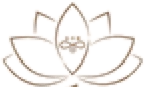
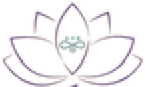
Revert to the DPMA-registered brand palette and fix the four-phase model
Per SomnoBalance_Entwickler-Vorgabe.docx (2026-09-20), which explicitly
supersedes all prior partial feedback:

- Color palette (§2): reverted --color-mauve/--color-teal/--color-sand/
  --color-offwhite/--color-ink and the lovable-* PDP tokens from the
  session's warm-brown palette back to the client's registered colors
  (#6F5784 primary, #669999 accent, #F8F3F1 base, #241F29 text) — the
  document states these are bound to the DPMA trademark filing, not a
  style preference. Added --color-ink-muted/--color-ink-meta for the
  spec's two additional text tones.
- Logo/icon (§4): restored the original purple assets (were recolored
  to warm-brown earlier this session, which is now the wrong direction).
  Note: the logo's tagline text "SELBSTHEILUNG" is baked into the raster
  image and the doc flags it as too close to a medical claim (wants
  "BALANCE" instead) — this still needs a proper re-export from source,
  tracked separately since pixel-patching baked-in text isn't safe to do here.
- Four-phase model (§6, §10): replaced the 5-station CycleBar component
  (TAG/REGULATION/LOSLASSEN/VORBEREITUNG/NACHT — six stations on the
  live bug report, non-canonical names) with PhaseProgressStrip: exactly
  the four required terms (Regulieren/Loslassen/Vorbereiten/Regenerieren),
  numbered 01-04, alternating divider color, no card/icon per spec.
  Fixed the same English-name leak in home.phases, the About page's p3
[…]

diff --git a/src/app/globals.css b/src/app/globals.css
@@ -1,18 +1,22 @@
 @import "tailwindcss";
 
 :root {
-  /* Warm neutral palette (client brief: cream/sand/beige/taupe/warm brown,
-     never cold or technical). `mauve` keeps its role as the primary accent
-     (buttons, links, headings) and `teal` as the secondary/label accent —
-     only the actual colors changed, so every existing usage site inherits
-     the new palette without needing to be touched individually. */
-  --color-mauve: #8a6a4f;
-  --color-mauve-dark: #6b4f39;
-  --color-teal: #a9835f;
-  --color-teal-dark: #7c5a3d;
-  --color-sand: #efe4d3;
-  --color-offwhite: #faf6ef;
-  --color-ink: #3a2f27;
+  /* Binding brand palette per SomnoBalance_Entwickler-Vorgabe.docx §2
+     (2026-09-20): registered with the DPMA trademark filing, not a style
+     preference — no other color world (sand/beige/gold, dark blue/platinum)
+     is permitted for SomnoBalance. `mauve` keeps its role as the primary
+     accent (buttons, links, headings) and `teal` as the secondary/label
+     accent so every existing usage site inherits the corrected palette
+     without needing to be touched individually. */
+  --color-mauve: #6f5784;
+  --color-mauve-dark: #5a4569;
+  --color-teal: #669999;
+  --color-teal-dark: #4d7a7a;
+  --color-sand: #e4dad3;
+  --color-offwhite: #f8f3f1;
+  --color-ink: #241f29;
+  --color-ink-muted: #5c5560;
+  --color-ink-meta: #9a93a0;
   --background: var(--color-offwhite);
   --foreground: var(--color-ink);
 
@@ -20,40 +24,40 @@
      hero deepens slightly so the page reads as a calming descent rather
      than snapping back to a flat background — dark ink text stays legible
      throughout, this never goes fully dark. Scoped to the homepage only;
-     every other page keeps the flat --color-offwhite background. */
-  --color-scroll-1: #faf6ef;
-  --color-scroll-2: #f5ecdd;
-  --color-scroll-3: #eeddc4;
+     every other page keeps the flat --color-offwhite background. Rebased
+     off the corrected #F8F3F1 base per the Entwickler-Vorgabe palette. */
+  --color-scroll-1: #f8f3f1;
+  --color-scroll-2: #f0e9e4;
+  --color-scroll-3: #e7dbd4;
 
-  /* Phase-card tint pair (client spec, 2026-09-16 email): the two brand
-     colors used as very light background fills behind alternating phase
-     cards — REGULATE/PREPARE get the mauve tint, LET GO/REGENERATE get
-     the sage tint. Distinct from --color-mauve/--color-teal (the site's
-     own accent tokens) since the client gave these as specific hex
-     values to match exactly, not to be substituted with our palette. */
+  /* Phase-card tint pair: now identical to --color-mauve/--color-teal
+     since both were corrected to the same DPMA-registered hex values
+     (Entwickler-Vorgabe.docx §2) — kept as separate tokens only because
+     call sites already reference them by this name. */
   --color-phase-mauve: #6f5784;
   --color-phase-sage: #669999;
 
-  /* Lovable PDP design-system tokens (exact port from the client's
-     Lovable export, src/styles.css) — used only by src/components/lovable/*
-     and the roll-on PDP body. Kept separate from the site's own mauve/ink/
-     sand palette rather than merged, since this is a like-for-like port
-     to be reconciled/swapped later, not a redesign of the shared palette. */
-  --lovable-background: oklch(0.975 0.012 78);
-  --lovable-foreground: oklch(0.27 0.025 55);
-  --lovable-card: oklch(0.985 0.009 76);
-  --lovable-card-foreground: oklch(0.27 0.025 55);
-  --lovable-primary: oklch(0.49 0.07 59);
-  --lovable-primary-foreground: oklch(0.98 0.01 78);
-  --lovable-secondary: oklch(0.91 0.025 72);
-  --lovable-secondary-foreground: oklch(0.3 0.03 55);
-  --lovable-muted: oklch(0.94 0.018 74);
-  --lovable-muted-foreground: oklch(0.54 0.025 58);
-  --lovable-accent: oklch(0.88 0.045 68);
-  --lovable-accent-foreground: oklch(0.29 0.03 55);
-  --lovable-border: oklch(0.86 0.025 69);
-  --lovable-input: oklch(0.86 0.025 69);
-  --lovable-ring: oklch(0.49 0.07 59);
+  /* Lovable PDP design-system tokens — rebased onto the binding brand
+     palette (Entwickler-Vorgabe.docx §2: #6F5784 primary, #669999 accent,
+     #F8F3F1 base, #241F29 text) instead of the earlier warm-brown port.
+     Tonal steps (card/muted/secondary/accent/border) keep the same
+     lightness relationships as the original tokens, just recomputed on
+     the corrected hue (~308° primary, ~196° accent) instead of ~59°/78°. */
+  --lovable-background: oklch(0.967 0.006 43.3);
+  --lovable-foreground: oklch(0.249 0.02 307.6);
+  --lovable-card: oklch(0.98 0.004 43.3);
+  --lovable-card-foreground: oklch(0.249 0.02 307.6);
+  --lovable-primary: oklch(0.499 0.075 308.3);
+  --lovable-primary-foreground: oklch(0.967 0.006 43.3);
+  --lovable-secondary: oklch(0.91 0.02 308.3);
+  --lovable-secondary-foreground: oklch(0.32 0.03 307.6);
+  --lovable-muted: oklch(0.94 0.012 308.3);
+  --lovable-muted-foreground: oklch(0.46 0.02 313.5);
+  --lovable-accent: oklch(0.88 0.03 195.9);
+  --lovable-accent-foreground: oklch(0.3 0.025 307.6);
+  --lovable-border: oklch(0.894 0.015 57.6);
+  --lovable-input: oklch(0.894 0.015 57.6);
+  --lovable-ring: oklch(0.499 0.075 308.3);
 }
 
 @theme inline {
@@ -64,6 +68,8 @@
   --color-sand: var(--color-sand);
   --color-offwhite: var(--color-offwhite);
   --color-ink: var(--color-ink);
+  --color-ink-muted: var(--color-ink-muted);
+  --color-ink-meta: var(--color-ink-meta);
   --color-background: var(--background);
   --color-foreground: var(--foreground);
   --color-scroll-1: var(--color-scroll-1);

diff --git a/src/app/[lang]/page.tsx b/src/app/[lang]/page.tsx
@@ -5,7 +5,7 @@ import { ProductCard } from "@/components/ProductCard";
 import { getDictionary } from "@/i18n/getDictionary";
 import { isLocale, type Locale } from "@/i18n/config";
 import { notFound } from "next/navigation";
-import { CycleBar } from "@/components/CycleBar";
+import { PhaseProgressStrip } from "@/components/PhaseProgressStrip";
 
 export default async function Home({ params }: { params: Promise<{ lang: string }> }) {
   const { lang } = await params;
@@ -23,7 +23,8 @@ export default async function Home({ params }: { params: Promise<{ lang: string 
           <div>
             <p className="text-sm uppercase tracking-[0.2em] text-teal-dark">{dict.home.eyebrow}</p>
             <h1 className="mt-4 font-serif text-4xl leading-tight text-ink md:text-5xl">
-              {dict.home.title}
+              {dict.home.titlePrefix}
+              <em className="text-mauve italic">{dict.home.titleAccent}</em>
             </h1>
             <p className="mt-6 max-w-md text-lg leading-relaxed text-ink/70">
               {dict.home.subtitle}
@@ -71,7 +72,14 @@ export default async function Home({ params }: { params: Promise<{ lang: string 
       </section>
 
       <section style={{ background: "color-mix(in srgb, var(--color-scroll-1) 74%, transparent)" }}>
-        <CycleBar label={dict.home.cycleLabel} stages={dict.home.cycle} />
+        <div className="bg-sand/40 py-10">
+          <p className="text-center text-[0.65rem] uppercase tracking-[0.2em] text-ink-meta">
+            {dict.home.cycleLabel}
+          </p>
+          <div className="mt-6">
+            <PhaseProgressStrip phases={dict.home.cycle} />
+          </div>
+        </div>
 
         <div className="mx-auto max-w-6xl px-4 py-16 sm:px-6">
           <div className="grid items-center gap-10 md:grid-cols-2">

diff --git a/src/components/PhaseProgressStrip.tsx b/src/components/PhaseProgressStrip.tsx
@@ -1,0 +1,25 @@
+// Binding component per SomnoBalance_Entwickler-Vorgabe.docx §6/§10: a
+// numbered 01-04 progress strip for the four-phase model — thin top
+// divider (alternating primary/accent color), number, name, one-sentence
+// caption. No card background, no icon, no border box. Replaces the old
+// 5-stage CycleBar (TAG/REGULATION/LOSLASSEN/VORBEREITUNG/NACHT), which
+// used non-canonical station names and icon chips the spec disallows.
+const DIVIDER_COLORS = ["var(--color-mauve)", "var(--color-teal)", "var(--color-mauve)", "var(--color-teal)"];
+
+export function PhaseProgressStrip({
+  phases,
+}: {
+  phases: { name: string; caption: string }[];
+}) {
+  return (
+    <div className="mx-auto grid max-w-4xl grid-cols-2 gap-x-6 gap-y-8 px-4 sm:grid-cols-4 sm:px-6">
+      {phases.map((phase, i) => (
+        <div key={phase.name} className="pt-3" style={{ borderTop: `2px solid ${DIVIDER_COLORS[i % 4]}` }}>
+          <span className="text-xs text-ink-meta">{String(i + 1).padStart(2, "0")}</span>
+          <div className="mt-1 text-sm font-medium text-ink">{phase.name}</div>
+          <p className="mt-1 text-xs leading-relaxed text-ink-muted">{phase.caption}</p>
+        </div>
+      ))}
+    </div>
+  );
+}

diff --git a/src/app/[lang]/shop/ShopClient.tsx b/src/app/[lang]/shop/ShopClient.tsx
@@ -105,10 +105,10 @@ export function ShopClient({ products, lang, dict }: { products: any[]; lang: Lo
 
   const phases = [
     { key: "all", label: lang === "de" ? "Alle Phasen" : "All Phases" },
-    { key: "REGULATE", label: "01 · REGULATE" },
-    { key: "LET GO", label: "02 · LET GO" },
-    { key: "PREPARE", label: "03 · PREPARE" },
-    { key: "REGENERATE", label: "04 · REGENERATE" },
+    { key: "REGULATE", label: `01 · ${dict.shop.phases.REGULATE}` },
+    { key: "LET GO", label: `02 · ${dict.shop.phases["LET GO"]}` },
+    { key: "PREPARE", label: `03 · ${dict.shop.phases.PREPARE}` },
+    { key: "REGENERATE", label: `04 · ${dict.shop.phases.REGENERATE}` },
   ];
 
   const handleQuickAddToCart = (e: React.MouseEvent, product: any) => {
